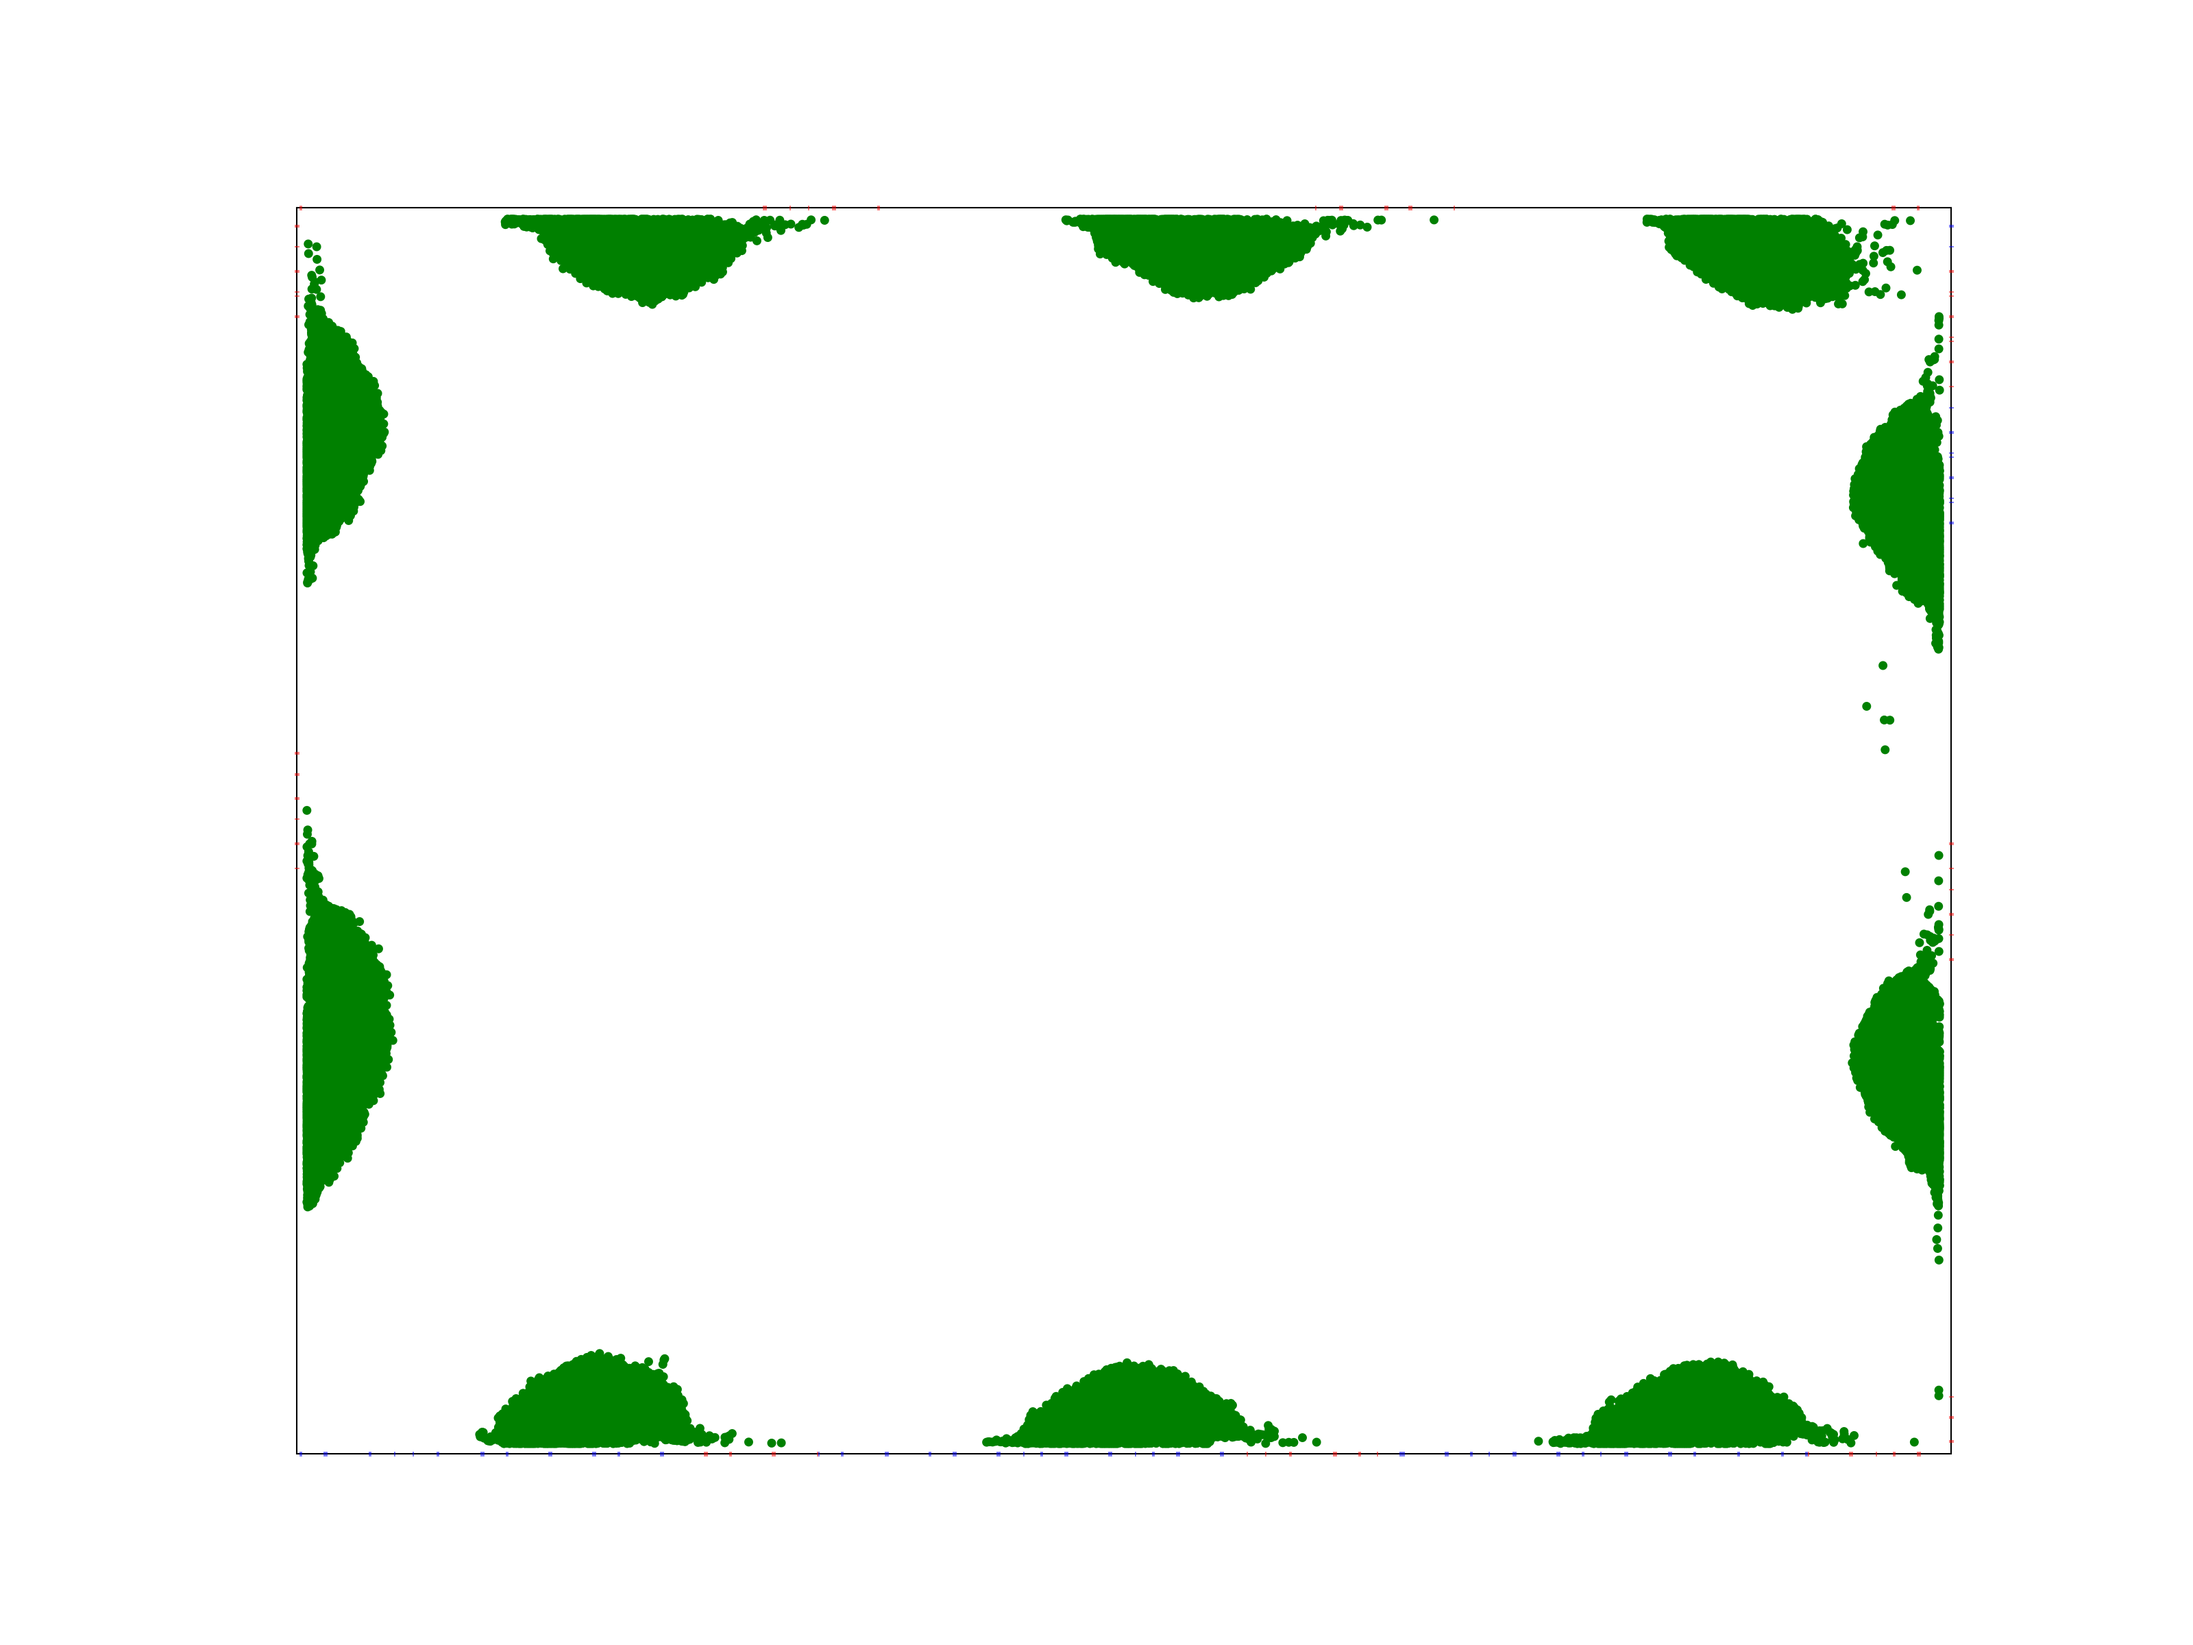
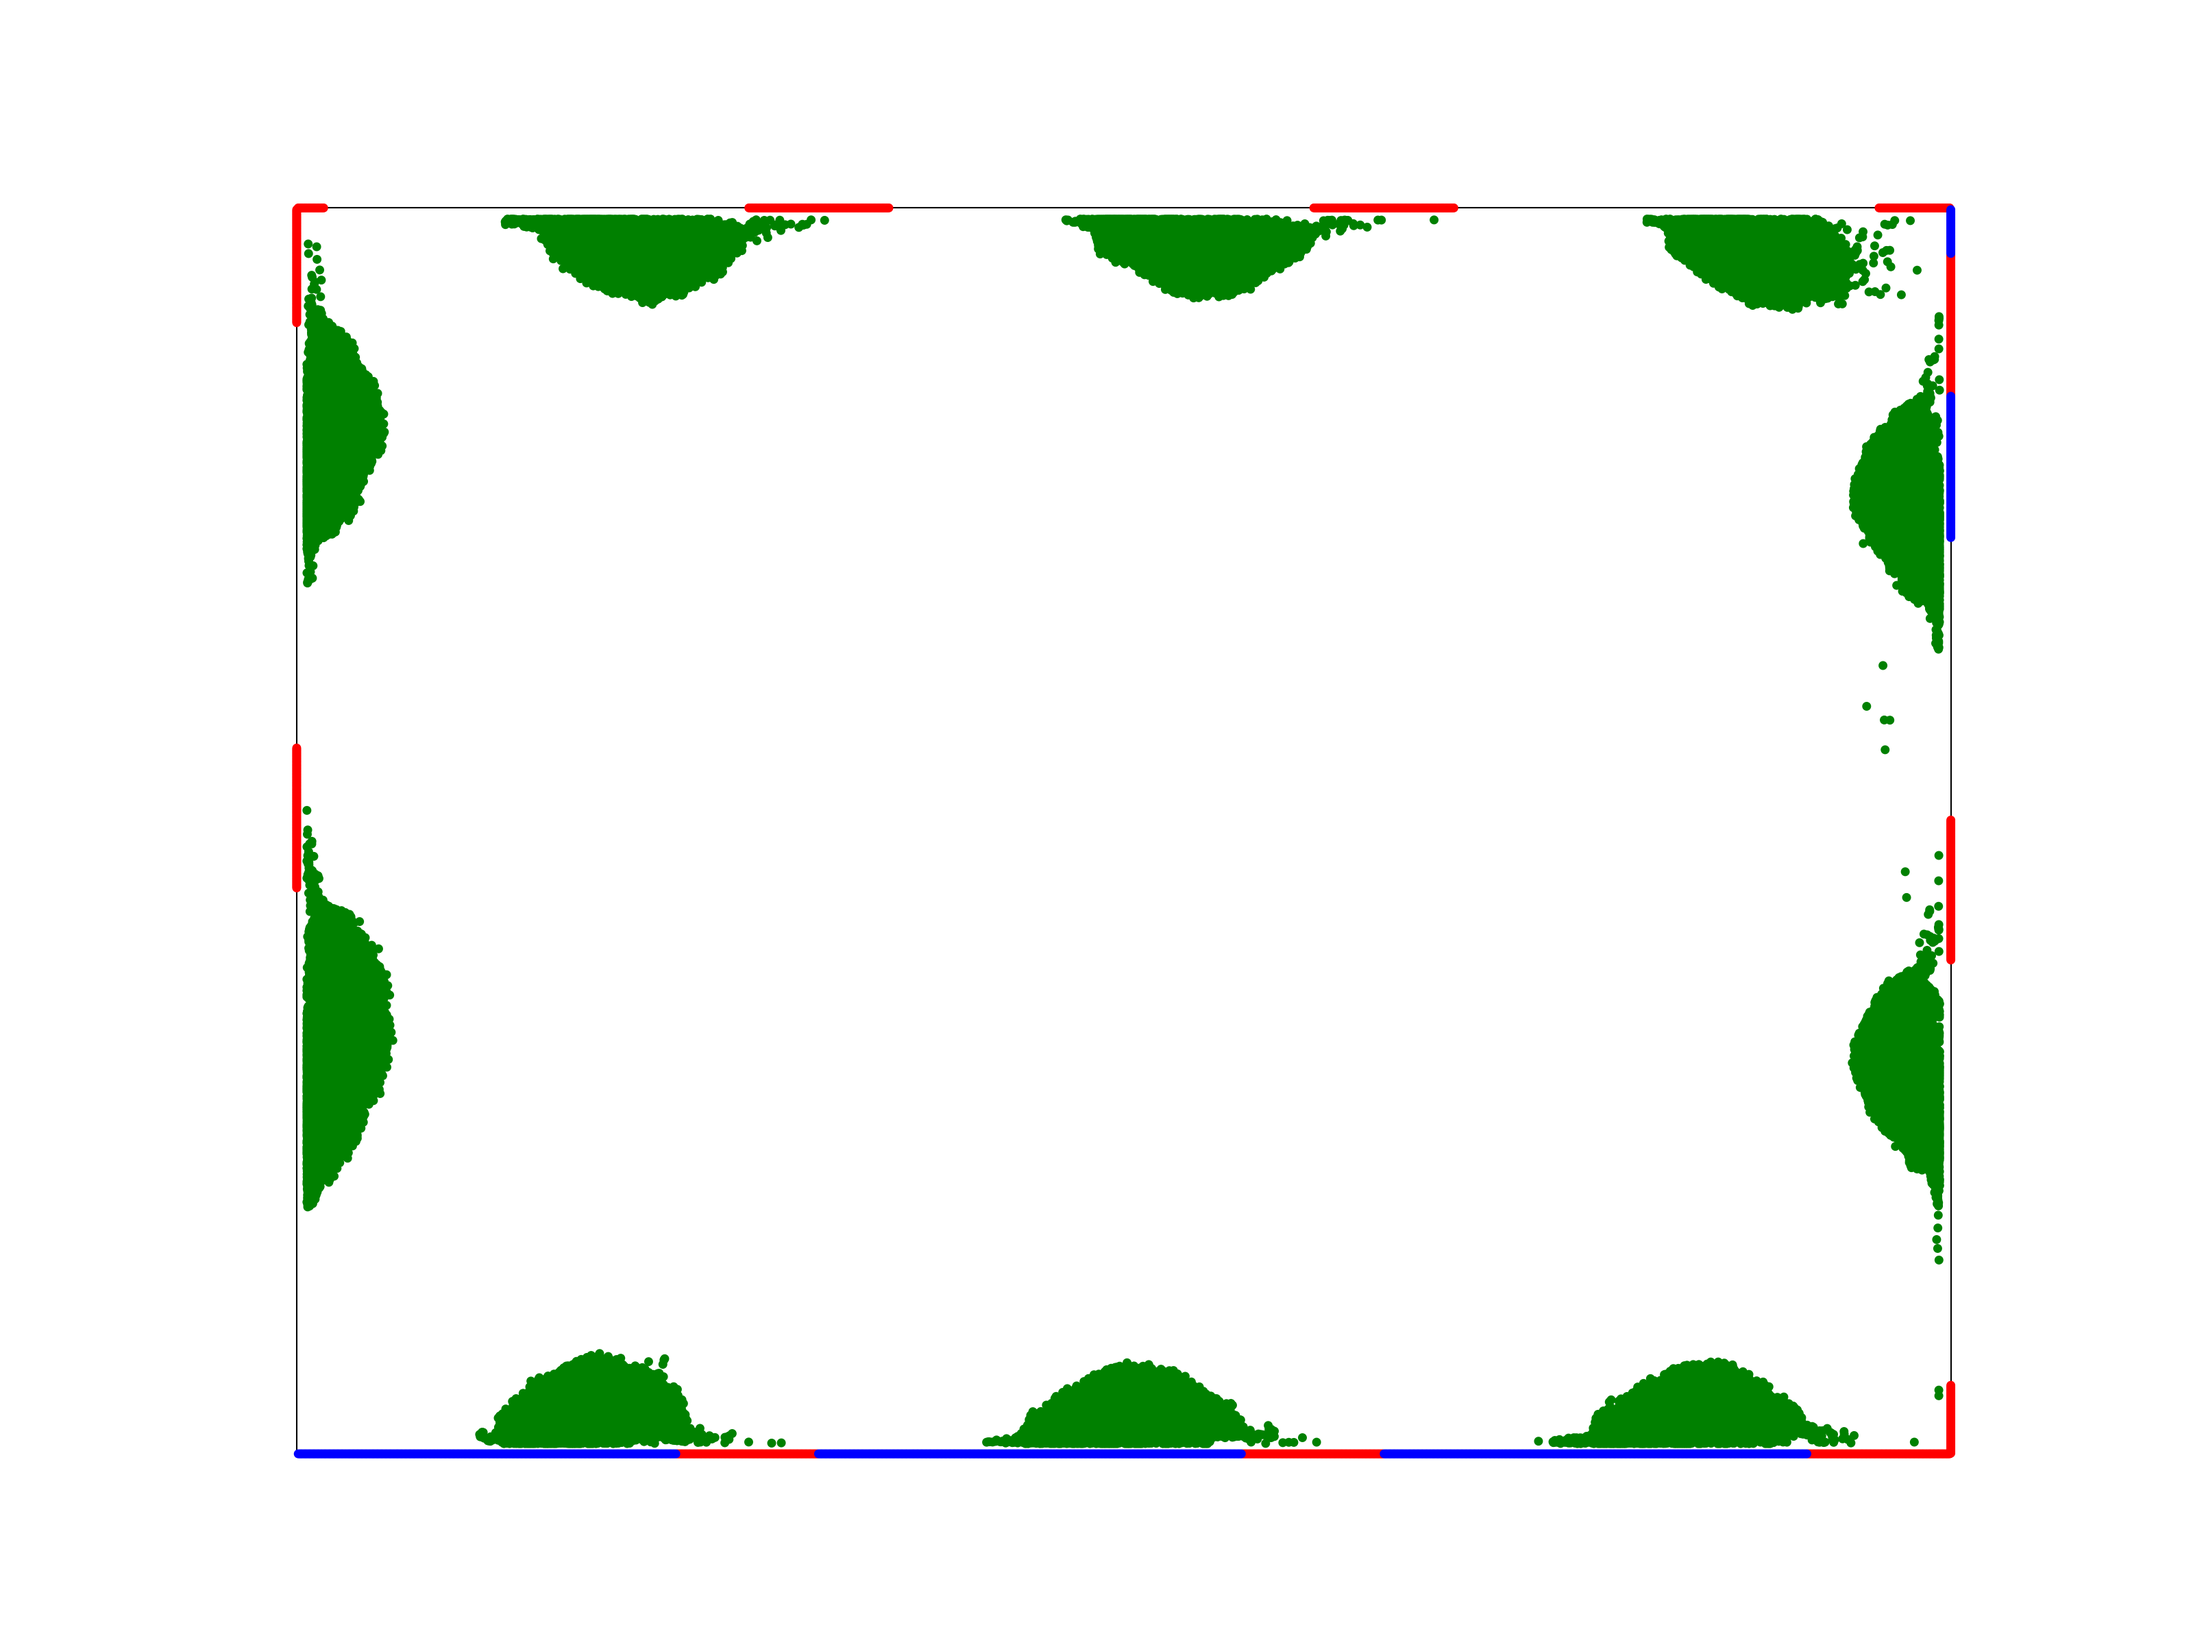
revise plot

diff --git a/plot.py b/plot.py
@@ -2,7 +2,7 @@ import matplotlib.pyplot as plt
 import matplotlib.patches as patches
 
 # Load
-f = open('../testcase1/testcase1.txt')
+f = open('testcase1/testcase1.txt')
 input = []
 
 for line in f.readlines():
@@ -36,14 +36,14 @@ rowSpan, colSpan = input[1][4], input[1][5]
 inPins = int(input[2][0])
 ip = []
 for i in range(inPins):
-  ip.append(patches.Rectangle((input[3+i][0], input[3+i][1]), input[3+i][2], input[3+i][3], color='red'))
+  ip.append(patches.Circle((input[3+i][0], input[3+i][1]), radius=1, color='red'))
   ax.add_patch(ip[i])
 
 ### outPins
 outPins = int(input[3+inPins][0])
 op = []
 for i in range(inPins):
-  op.append(patches.Rectangle((input[3+inPins+1+i][0], input[3+inPins+1+i][1]), input[3+inPins+1+i][2], input[3+inPins+1+i][3], color='blue'))
+  op.append(patches.Circle((input[3+inPins+1+i][0], input[3+inPins+1+i][1]), radius=1, color='blue'))
   ax.add_patch(op[i])
 
 ## Cell
